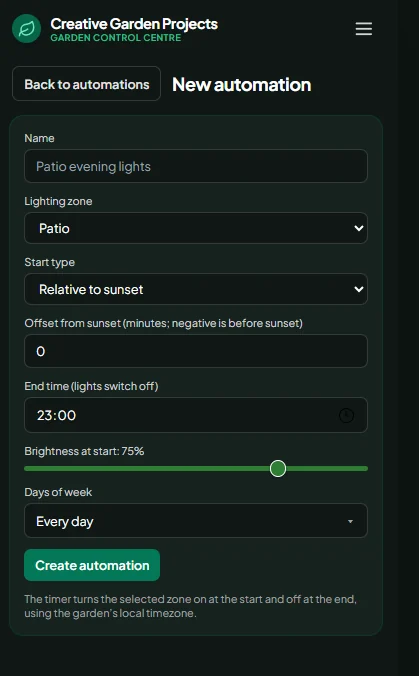
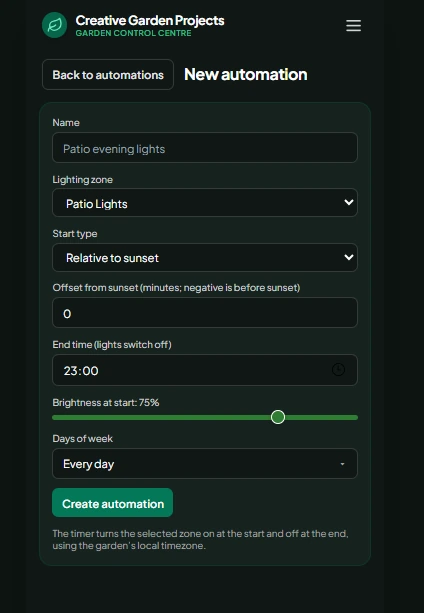
changed homepage app screen shots to use demo pictures

diff --git a/index.html b/index.html
@@ -19,9 +19,10 @@
     </a>
     <button class="menu-toggle" aria-expanded="false" aria-controls="nav" aria-label="Open navigation"><span></span><span></span></button>
     <nav id="nav" class="nav">
-      <a href="#idea">The idea</a><a href="#how">How it works</a><a href="#journey">The journey</a><a href="#dashboard">Dashboard</a><a href="demo/" target="_blank" rel="noopener noreferrer">Try the demo ↗</a><a class="nav-cta" href="contact.html">Contact <span>↗</span></a>
+      <a href="#idea">The idea</a><a href="#how">How it works</a><a href="#journey">The journey</a><a href="#dashboard">Dashboard</a><a href="demo/">Try the demo ↗</a><a class="nav-cta" href="#connect">Get in touch <span>↗</span></a>
     </nav>
   </header>
+
   <main id="top">
     <section class="hero">
       <div class="hero-shade"></div>
@@ -29,11 +30,12 @@
         <p class="eyebrow"><span class="pulse"></span> An independent garden technology project</p>
         <h1>A garden that<br><em>works with you.</em></h1>
         <p class="hero-copy">What if your garden could do more than look good? Garden Control Centre is a home-built project exploring how simple, effective technology can make outdoor spaces easier to care for, more responsive and more enjoyable.</p>
-        <div class="hero-actions"><a class="button button-light" href="#idea">Explore the concept <span>↓</span></a><a class="text-link light-link" href="demo/" target="_blank" rel="noopener noreferrer">Try the interactive dashboard demo <span>↗</span></a></div>
+        <div class="hero-actions"><a class="button button-light" href="#idea">Explore the concept <span>↓</span></a><a class="text-link light-link" href="demo/">Try the interactive dashboard demo <span>↗</span></a></div>
         <div class="hero-note"><span class="note-line"></span><span>Built in a real garden. Developed one experiment at a time.</span></div>
       </div>
       <div class="hero-caption">Garden lighting · sensing · smarter care</div>
     </section>
+
     <section class="intro section wrap" id="idea">
       <div class="section-kicker"><span>01</span> THE IDEA</div>
       <div class="intro-grid">
@@ -46,9 +48,10 @@
         <article><span class="principle-icon">♧</span><h3>Designed around nature</h3><p>Use real conditions and garden context to inform better decisions.</p></article>
       </div>
     </section>
+
     <section class="feature-band" id="how">
       <div class="wrap feature-grid">
-        <div class="feature-copy"><div class="section-kicker kicker-light"><span>02</span> HOW IT WORKS</div><h2>A small computer.<br>A real-world garden.<br><em>Lots of potential.</em></h2><p>At the heart of the prototype is a Raspberry Pi. It connects software to physical hardware, giving the project a flexible foundation for controlling lights and reading garden conditions.</p><p>The approach is deliberately hands-on: use accessible components, solve real problems and keep the system as straightforward as possible.</p><a class="text-link light-link" href="demo/" target="_blank" rel="noopener noreferrer">Explore the dashboard demo <span>↗</span></a></div>
+        <div class="feature-copy"><div class="section-kicker kicker-light"><span>02</span> HOW IT WORKS</div><h2>A small computer.<br>A real-world garden.<br><em>Lots of potential.</em></h2><p>At the heart of the prototype is a Raspberry Pi. It connects software to physical hardware, giving the project a flexible foundation for controlling lights and reading garden conditions.</p><p>The approach is deliberately hands-on: use accessible components, solve real problems and keep the system as straightforward as possible.</p><a class="text-link light-link" href="demo/">Explore the dashboard demo <span>↗</span></a></div>
         <div class="system-card">
           <div class="system-card-top"><span class="mini-label">PROTOTYPE OVERVIEW</span><span class="status"><i></i> In development</span></div>
           <div class="system-node node-pi"><span class="node-icon">▦</span><div><strong>Raspberry Pi 3 Model B</strong><small>Local controller · Python</small></div><span class="node-tag">CORE</span></div>
@@ -60,6 +63,7 @@
         </div>
       </div>
     </section>
+
     <section class="build section wrap" id="journey">
       <div class="section-kicker"><span>03</span> THE JOURNEY SO FAR</div>
       <div class="build-heading"><h2>Built by doing.<br><em>Improved by learning.</em></h2><p>This is a home-built project, developed in stages with a simple principle: make useful things work reliably before adding complexity. These are real snapshots of the garden work, lighting tests and electronics.</p></div>
@@ -71,28 +75,32 @@
       <div class="photo-timeline" aria-label="Garden project photo timeline">
         <figure><img class="timeline-before" src="assets/concrete-retaining-wall-before.webp" alt="Original concrete retaining wall and patio before the concrete was cut back" loading="lazy"><figcaption><b>01</b> The original concrete retaining wall before work began</figcaption></figure>
         <figure><img src="assets/patio-edge-construction.webp" alt="Patio edge during preparation for the brick-slip finish" loading="lazy"><figcaption><b>02</b> Chopping back and preparing the old concrete edge</figcaption></figure>
-        <figure><img class="timeline-detail" src="assets/brick-slip-led-detail.webp" alt="Close-up of a recessed LED in the brick slips during installation" loading="lazy"><figcaption><b>03</b> Adding the brick slips and fitting the recessed lights</figcaption></figure>
-        <figure><img src="assets/patio-edge-lighting-night.webp" alt="Finished brick-faced patio edge with warm-white lights glowing at night" loading="lazy"><figcaption><b>04</b> The warm-white lights tested after dark</figcaption></figure>
+        <figure><img src="assets/brick-slips-light-daylight.webp" alt="Brick slips and recessed LED fitted into the patio edge in daylight" loading="lazy"><figcaption><b>03</b> Adding the brick slips and fitting the recessed lights</figcaption></figure>
+        <figure><img class="timeline-detail" src="assets/brick-slip-led-detail.webp" alt="Close-up of a recessed LED in the brick slips during installation" loading="lazy"><figcaption><b>04</b> A closer look at the light set into the brickwork</figcaption></figure>
+        <figure><img src="assets/patio-edge-lighting-night.webp" alt="Finished brick-faced patio edge with warm-white lights glowing at night" loading="lazy"><figcaption><b>05</b> The warm-white lights tested after dark</figcaption></figure>
       </div>
-      <div class="build-callout"><span class="callout-symbol">↗</span><p><strong>Simple, practical, home-built.</strong> The aim is not technology for its own sake. It is to make useful garden features work reliably, learn from real-world tests and add complexity only when it improves the result.</p><a href="demo/" target="_blank" rel="noopener noreferrer">Explore the demo ↗</a></div>
+      <div class="build-callout"><span class="callout-symbol">↗</span><p><strong>Simple, practical, home-built.</strong> The aim is not technology for its own sake. It is to make useful garden features work reliably, learn from real-world tests and add complexity only when it improves the result.</p><a href="demo/">Explore the demo ↗</a></div>
     </section>
+
     <section class="garden-image-band">
       <img src="assets/garden-path-in-progress.webp" alt="Real garden path and planting area during patio and edging work" loading="lazy">
       <div class="garden-image-overlay"><span class="eyebrow">A connected garden, in context</span><p>Good technology starts with the place it's meant to serve.</p></div>
       <span class="visual-disclaimer">Actual garden · work in progress</span>
     </section>
+
     <section class="dashboard-section section" id="dashboard">
       <div class="wrap">
         <div class="section-kicker"><span>04</span> THE SOFTWARE</div>
         <div class="build-heading"><h2>A real dashboard.<br><em>Not just an idea.</em></h2><p>The current web app brings garden lighting controls, condition readings, schedules and health insights into a mobile-friendly interface. These are interactive previews of the demonstration interface, with sample readings and simulated controls.</p></div>
         <div class="dashboard-gallery dashboard-demo-gallery">
-          <figure class="dashboard-shot dashboard-shot-home"><a class="dashboard-image-link" href="demo/" target="_blank" rel="noopener noreferrer" aria-label="Open the interactive dashboard demo"><img src="assets/dashboard-home.webp" alt="Garden Control Centre home screen with lighting controls and garden conditions" loading="lazy"></a><figcaption><strong>Home and lighting</strong><span>The original dashboard screenshot, showing the garden-lighting controls and condition summary.</span></figcaption></figure>
-          <figure class="dashboard-shot"><a class="dashboard-image-link" href="demo/?view=garden" target="_blank" rel="noopener noreferrer" aria-label="Open garden health demo"><img src="assets/dashboard-health.webp" alt="Garden health screen with soil moisture, temperature, telemetry, health score and forecast" loading="lazy"></a><figcaption><strong>Garden health and insights</strong><span>Weather, moisture and temperature information brought together in one view. The screenshot contains example readings.</span></figcaption></figure>
-          <figure class="dashboard-shot"><a class="dashboard-image-link" href="demo/?view=automations" target="_blank" rel="noopener noreferrer" aria-label="Open automation demo"><img src="assets/dashboard-automation.webp" alt="Garden Control Centre automation setup screen" loading="lazy"></a><figcaption><strong>Lighting automations</strong><span>A look at the scheduling interface. Open the demo to try simulated controls.</span></figcaption></figure>
+          <figure class="dashboard-shot dashboard-shot-home"><a class="dashboard-image-link" href="demo/" aria-label="Open the interactive dashboard demo"><img src="assets/dashboard-home.webp" alt="Garden Control Centre home screen with lighting controls and garden conditions" loading="lazy"></a><figcaption><strong>Home and lighting</strong><span>The updated mobile home screen, with lighting controls, garden conditions and a sunset automation summary.</span></figcaption></figure>
+          <figure class="dashboard-shot"><a class="dashboard-image-link" href="demo/?view=garden" aria-label="Open garden health demo"><img src="assets/dashboard-health.webp" alt="Garden health screen with soil moisture, temperature, telemetry, health score and forecast" loading="lazy"></a><figcaption><strong>Garden health and insights</strong><span>Weather, moisture and temperature information brought together in one view. The screenshot contains example readings.</span></figcaption></figure>
+          <figure class="dashboard-shot"><a class="dashboard-image-link" href="demo/?view=automations" aria-label="Open automation demo"><img src="assets/dashboard-automation.webp" alt="Garden Control Centre automation setup screen" loading="lazy"></a><figcaption><strong>Lighting automations</strong><span>Preview the automation setup screen, including lighting zone, sunset timing, brightness and days of the week. The demo uses simulated controls.</span></figcaption></figure>
         </div>
         <div class="dashboard-note"><span class="dashboard-note-mark">↗</span><p><strong>The interface is already taking shape.</strong> The wider project is still a prototype: the readings and statuses shown in these screenshots should not be interpreted as proof that every sensor feed, recommendation or automation is fully connected and production-ready.</p></div>
       </div>
     </section>
+
     <section class="future section wrap" id="future">
       <div class="section-kicker"><span>05</span> WHAT WE’RE DEVELOPING</div>
       <div class="future-heading"><h2>Useful today.<br><em>Smarter over time.</em></h2><p>Some of the core ideas are already in place. The project is evolving from working foundations, with more intelligence, context and confidence built into its decisions over time.</p></div>
@@ -104,11 +112,13 @@
       </div>
       <p class="honest-note"><span>↳</span> This is an evolving prototype. Weather-aware watering logic is already being explored in the system; further work will focus on improving the quality of its decisions, validating them against real garden conditions and building reliability over time.</p>
     </section>
+
     <section class="connect" id="connect">
-      <div class="wrap connect-inner"><div class="section-kicker kicker-light"><span>06</span> GET IN TOUCH</div><h2>Have an idea for<br><em>a smarter garden?</em></h2><p>Garden Control Centre is a home-built project that keeps things simple and practical. If you are interested in what is possible when straightforward technology meets a real garden, I would be happy to hear from you.</p><div class="connect-actions"><a class="button button-light" href="demo/" target="_blank" rel="noopener noreferrer">Try the dashboard demo <span>↗</span></a><a class="button button-outline" href="mailto:hello@creativegardenprojects.co.uk?subject=Garden%20Control%20Centre%20project">Email us <span>↗</span></a></div><p class="connect-small">Questions or interested in the project? Get in touch for a friendly conversation.</p></div>
+      <div class="wrap connect-inner"><div class="section-kicker kicker-light"><span>06</span> GET IN TOUCH</div><h2>Have an idea for<br><em>a smarter garden?</em></h2><p>Garden Control Centre is a home-built project that keeps things simple and practical. If you are interested in what is possible when straightforward technology meets a real garden, I would be happy to hear from you.</p><div class="connect-actions"><a class="button button-light" href="demo/">Try the dashboard demo <span>↗</span></a><a class="button button-outline" href="mailto:?subject=Garden%20Control%20Centre%20project">Get in touch <span>↗</span></a></div><p class="connect-small">Questions or interested in the project? Get in touch for a friendly conversation.</p></div>
     </section>
   </main>
-  <footer class="footer"><div class="wrap footer-inner"><a class="brand footer-brand" href="#top" aria-label="Creative Garden Projects — Garden Control Centre home"><span class="brand-mark" aria-hidden="true"><svg viewBox="0 0 40 40"><path d="M20 31V14M20 22C12 22 8 17 8 9c8 0 13 4 12 13M20 25c1-8 6-13 13-13 0 8-5 13-13 15"/><path d="M9 32h22"/></svg></span><span class="brand-copy"><strong>Creative Garden Projects</strong><small>GARDEN CONTROL CENTRE</small></span></a><p>An evolving garden technology project.</p><a class="footer-github" href="contact.html">Contact ↗</a><span class="copyright">© <span id="year">2026</span> Garden Control Centre</span></div></footer>
+
+  <footer class="footer"><div class="wrap footer-inner"><a class="brand footer-brand" href="#top" aria-label="Creative Garden Projects — Garden Control Centre home"><span class="brand-mark" aria-hidden="true"><svg viewBox="0 0 40 40"><path d="M20 31V14M20 22C12 22 8 17 8 9c8 0 13 4 12 13M20 25c1-8 6-13 13-13 0 8-5 13-13 15"/><path d="M9 32h22"/></svg></span><span class="brand-copy"><strong>Creative Garden Projects</strong><small>GARDEN CONTROL CENTRE</small></span></a><p>An evolving garden technology project.</p><a class="footer-github" href="#connect">Get in touch ↗</a><span class="copyright">© <span id="year">2026</span> Garden Control Centre</span></div></footer>
   <script src="script.js"></script>
 </body>
 </html>
